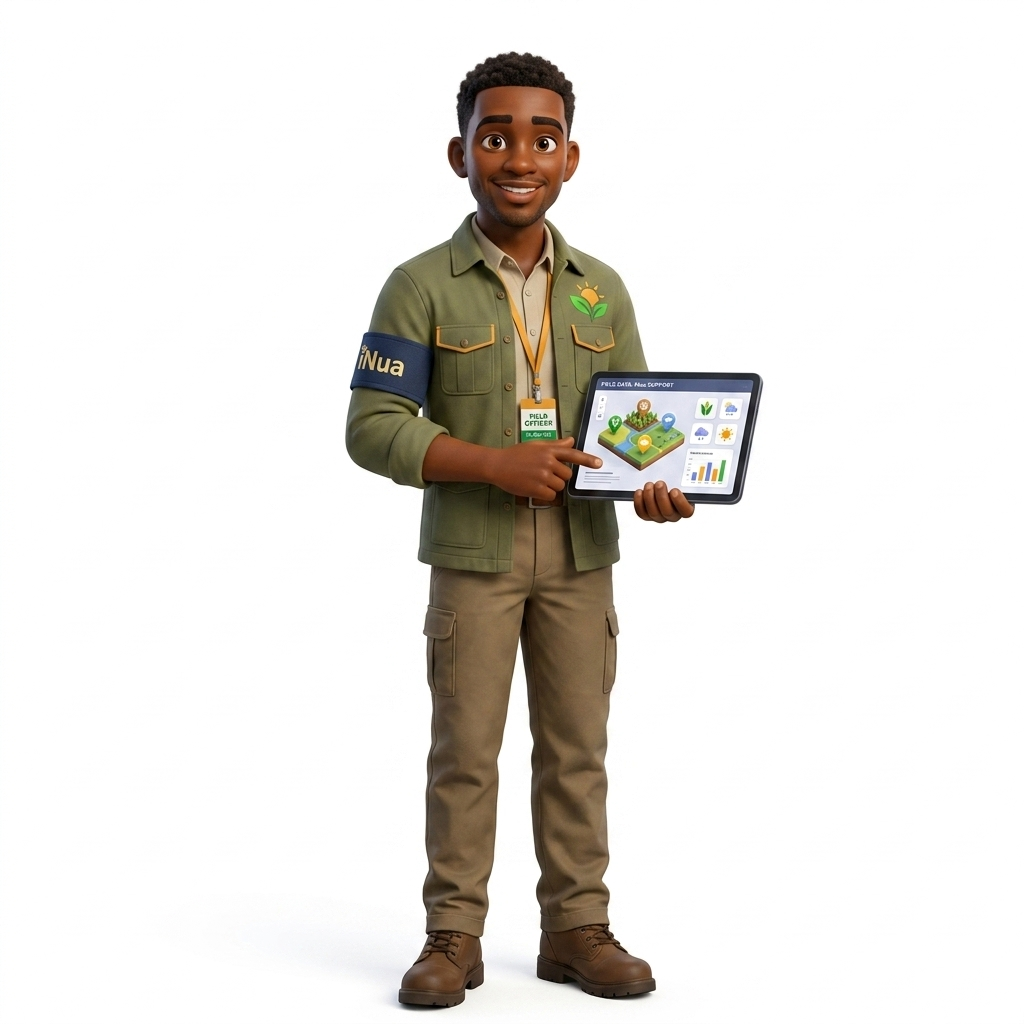
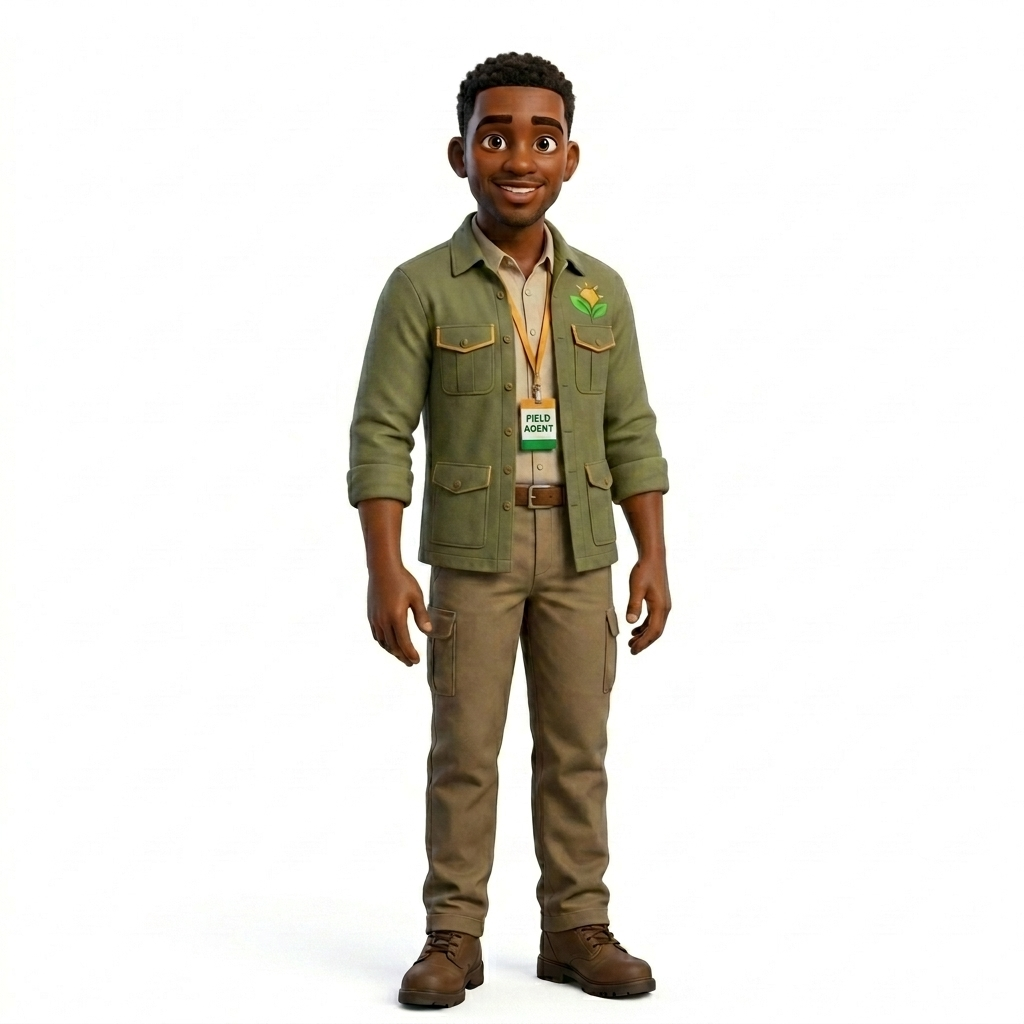
feat: refine glass box layouts, update leaf animation, and finalize Chris slide

Changed region(s): [[0.3125, 0.2812, 0.75, 0.6562], [0.5625, 0.2812, 0.5938, 0.3125], [0.5312, 0.125, 0.5625, 0.1562]]

diff --git a/One Acre Fund/index.html b/One Acre Fund/index.html
@@ -289,17 +289,17 @@
       position: absolute;
       background: rgba(255, 255, 255, 0.95);
       border: 1px solid rgba(255, 255, 255, 1);
-      border-radius: 20px;
-      padding: 22px 28px;
-      box-shadow: 0 20px 40px rgba(140, 65, 21, 0.08), 0 5px 15px rgba(0, 0, 0, 0.02);
+      border-radius: 16px;
+      padding: 12px 18px;
+      box-shadow: 0 15px 30px rgba(140, 65, 21, 0.08), 0 5px 15px rgba(0, 0, 0, 0.02);
       backdrop-filter: blur(10px);
       text-align: left;
       z-index: 10;
-      width: 320px;
+      width: 240px;
       transition: transform 0.3s ease, box-shadow 0.3s ease;
       display: flex;
       flex-direction: column;
-      gap: 5px;
+      gap: 2px;
     }
 
     .cluster-card:nth-child(4n) {
@@ -327,8 +327,8 @@
     .card-header {
       display: flex;
       align-items: center;
-      gap: 15px;
-      margin-bottom: 5px;
+      gap: 10px;
+      margin-bottom: 2px;
     }
 
     .card-icon {
@@ -367,14 +367,20 @@
     }
 
     @keyframes float {
-
-      0%,
-      100% {
-        transform: translateY(0) rotate(0deg);
+      0% {
+        transform: translate(0, 0) rotate(0deg) scale(1);
       }
-
+      25% {
+        transform: translate(15px, -15px) rotate(15deg) scale(1.05);
+      }
       50% {
-        transform: translateY(-25px) rotate(15deg);
+        transform: translate(-10px, -35px) rotate(-10deg) scale(0.95);
+      }
+      75% {
+        transform: translate(-20px, -15px) rotate(-25deg) scale(1.02);
+      }
+      100% {
+        transform: translate(0, 0) rotate(0deg) scale(1);
       }
     }
 
@@ -503,44 +509,48 @@
       <div class="cluster-title">
         <h1 class="info-title">Nia</h1>
         <h3 class="info-subtitle">General Support Guide</h3>
-        <div class="info-description"
-          style="font-size: 1.1rem; color: var(--text-color); margin-top: 1rem; opacity: 0.9; line-height: 1.5; text-align: left;">
-          here to help farmers get general information about OAF, solve issues and stay on track<br><br>
-          <strong>we will help you with:</strong><br>
-          • General questions<br>
-          • program information<br>
-          • connect to you the right team
+        <div class="info-description" style="font-size: 1.1rem; color: var(--text-color); margin-top: 1rem; opacity: 0.9; line-height: 1.5; text-align: left;">
+          here to help farmers get general information about OAF, solve issues and stay on track
         </div>
       </div>
 
-      <!-- Orthogonal SVG Connecting Lines -->
       <svg class="cluster-svg" viewBox="0 0 1000 1000" preserveAspectRatio="none">
         <defs>
-          <marker id="arrow" viewBox="0 0 10 10" refX="8" refY="5" markerWidth="6" markerHeight="6"
-            orient="auto-start-reverse">
+          <marker id="arrow" viewBox="0 0 10 10" refX="8" refY="5" markerWidth="6" markerHeight="6" orient="auto-start-reverse">
             <path d="M 0 1 L 8 5 L 0 9 z" fill="#eab683" />
           </marker>
         </defs>
-        <!-- Left - Call Support -->
-        <path d="M 400 480 L 300 480 L 300 480 L 220 480" marker-end="url(#arrow)" />
+        <!-- Top Left - We will help you with -->
+        <path d="M 450 380 L 360 380" marker-end="url(#arrow)" />
+        <!-- Bottom Left - Call Support -->
+        <path d="M 450 680 L 360 680" marker-end="url(#arrow)" />
         <!-- Top Right - Chat with Nia -->
-        <path d="M 600 400 L 700 400 L 700 350 L 780 350" marker-end="url(#arrow)" />
+        <path d="M 550 350 L 640 350" marker-end="url(#arrow)" />
         <!-- Bottom Right - Reminders -->
-        <path d="M 600 600 L 720 600 L 720 650 L 780 650" marker-end="url(#arrow)" />
+        <path d="M 550 680 L 640 680" marker-end="url(#arrow)" />
       </svg>
 
       <div class="floating-leaf" style="width: 30px; height: 30px; top: 30%; left: 35%; animation-delay: 0s;"></div>
       <div class="floating-leaf" style="width: 20px; height: 20px; top: 60%; right: 30%; animation-delay: 1.5s;"></div>
-      <div class="floating-leaf"
-        style="width: 40px; height: 40px; top: 15%; right: 20%; animation-delay: 3s; border-radius: 0 50% 0 50%; opacity: 0.1;">
-      </div>
+      <div class="floating-leaf" style="width: 40px; height: 40px; top: 15%; right: 20%; animation-delay: 3s; border-radius: 0 50% 0 50%; opacity: 0.1;"></div>
 
       <!-- Character -->
       <div class="character-backdrop"></div>
       <img src="../Images/nia.png" alt="Nia" class="cluster-character" />
 
       <!-- Absolute Floating Cards -->
-      <div class="cluster-card" style="top: 43%; left: 8%;">
+      <div class="cluster-card" style="top: 33%; left: 16%; min-width: 250px;">
+        <div class="card-header" style="margin-bottom: 8px;">
+          <h4>We will help you with</h4>
+        </div>
+        <ul style="list-style: none; padding: 0; margin: 0; line-height: 1.6; font-size: 0.9rem; color: var(--text-color);">
+          <li style="display: flex; align-items: center; gap: 8px;"><i class="ph-fill ph-question" style="color: var(--brand-green); font-size: 1.1rem;"></i> General questions</li>
+          <li style="display: flex; align-items: center; gap: 8px;"><i class="ph-fill ph-info" style="color: var(--brand-green); font-size: 1.1rem;"></i> Program information</li>
+          <li style="display: flex; align-items: center; gap: 8px;"><i class="ph-fill ph-users" style="color: var(--brand-green); font-size: 1.1rem;"></i> Connect you to the right team</li>
+        </ul>
+      </div>
+
+      <div class="cluster-card" style="top: 68%; left: 18%;">
         <div class="card-header">
           <div class="card-icon"><i class="ph-fill ph-phone"></i></div>
           <h4>Call support</h4>
@@ -548,19 +558,18 @@
         <p>24/7 support in kinyarwanda</p>
       </div>
 
-      <div class="cluster-card" style="top: 30%; right: 10%;">
+      <div class="cluster-card" style="top: 28%; right: 16%;">
         <div class="card-header">
           <div class="card-icon" style="position: relative;">
             <i class="ph-fill ph-chat-teardrop-text"></i>
-            <span
-              style="position: absolute; bottom: 0px; right: -2px; width: 12px; height: 12px; background: #3b8842; border: 2px solid white; border-radius: 50%;"></span>
+            <span style="position: absolute; bottom: 0px; right: -2px; width: 12px; height: 12px; background: #3b8842; border: 2px solid white; border-radius: 50%;"></span>
           </div>
           <h4>Chat with Nia</h4>
         </div>
         <p>Get help in real time.</p>
       </div>
 
-      <div class="cluster-card" style="top: 60%; right: 12%;">
+      <div class="cluster-card" style="top: 65%; right: 18%;">
         <div class="card-header">
           <div class="card-icon"><i class="ph-fill ph-calendar"></i></div>
           <h4>Reminders</h4>
@@ -585,45 +594,74 @@
     <div class="cluster-container">
       <div class="cluster-title">
         <h1 class="info-title">Nuru</h1>
-        <h3 class="info-subtitle">Dani Rup \ Weather Guide</h3>
+        <h3 class="info-subtitle">Weather Guide</h3>
+        <div class="info-description" style="font-size: 1.1rem; color: var(--text-color); margin-top: 1rem; opacity: 0.9; line-height: 1.5; text-align: left;">
+          Helping farmers understand the upcoming weather in their location, weather risks, timings and what action they should take.
+        </div>
       </div>
 
       <svg class="cluster-svg" viewBox="0 0 1000 1000" preserveAspectRatio="none">
         <defs>
-          <marker id="arrow2" viewBox="0 0 10 10" refX="8" refY="5" markerWidth="6" markerHeight="6"
-            orient="auto-start-reverse">
+          <marker id="arrow2" viewBox="0 0 10 10" refX="8" refY="5" markerWidth="6" markerHeight="6" orient="auto-start-reverse">
             <path d="M 0 1 L 8 5 L 0 9 z" fill="#eab683" />
           </marker>
         </defs>
-        <!-- Left -->
-        <path d="M 400 550 L 300 550 L 300 460 L 220 460" marker-end="url(#arrow2)" />
-        <!-- Right -->
-        <path d="M 600 550 L 700 550 L 700 460 L 780 460" marker-end="url(#arrow2)" />
+        <!-- Top Left -->
+        <path d="M 450 380 L 360 380" marker-end="url(#arrow2)" />
+        <!-- Bottom Left -->
+        <path d="M 450 680 L 360 680" marker-end="url(#arrow2)" />
+        <!-- Top Right -->
+        <path d="M 550 350 L 640 350" marker-end="url(#arrow2)" />
+        <!-- Bottom Right -->
+        <path d="M 550 680 L 640 680" marker-end="url(#arrow2)" />
       </svg>
 
-      <div class="floating-leaf" style="width: 35px; height: 35px; top: 25%; left: 5%; animation-delay: 0.5s;"></div>
-      <div class="floating-leaf"
-        style="width: 25px; height: 25px; top: 70%; right: 10%; animation-delay: 2s; opacity: 0.1;"></div>
+      <!-- Weather Background Icons -->
+      <div class="floating-leaf" style="width: 35px; height: 35px; top: 25%; left: 5%; animation-delay: 0.5s; color: var(--accent-orange); opacity: 0.2;"><i class="ph-fill ph-sun" style="font-size: 35px;"></i></div>
+      <div class="floating-leaf" style="width: 25px; height: 25px; top: 70%; right: 10%; animation-delay: 2s; color: var(--text-color); opacity: 0.1;"><i class="ph-fill ph-cloud" style="font-size: 25px;"></i></div>
+      <div class="floating-leaf" style="width: 40px; height: 40px; top: 15%; right: 25%; animation-delay: 3s; color: var(--text-color); opacity: 0.15;"><i class="ph-fill ph-cloud-rain" style="font-size: 40px;"></i></div>
 
       <!-- Character -->
       <div class="character-backdrop"></div>
       <img src="../Images/nuru.png" alt="Nuru" class="cluster-character" />
 
       <!-- Absolute Floating Cards -->
-      <div class="cluster-card" style="top: 42%; left: 10%;">
-        <div class="card-header">
-          <div class="card-icon"><i class="ph-fill ph-cloud-sun"></i></div>
-          <h4>Weather Advisor</h4>
+      <div class="cluster-card" style="top: 33%; left: 16%; min-width: 250px;">
+        <div class="card-header" style="margin-bottom: 8px;">
+          <h4>We will help you with</h4>
         </div>
-        <p>wather advisot, explanationm, use case and exmaples</p>
+        <ul style="list-style: none; padding: 0; margin: 0; line-height: 1.6; font-size: 0.9rem; color: var(--text-color);">
+          <li style="display: flex; align-items: center; gap: 8px;"><i class="ph-fill ph-cloud-rain" style="color: var(--brand-green); font-size: 1.1rem;"></i> Rain alerts</li>
+          <li style="display: flex; align-items: center; gap: 8px;"><i class="ph-fill ph-plant" style="color: var(--brand-green); font-size: 1.1rem;"></i> Planting timings</li>
+          <li style="display: flex; align-items: center; gap: 8px;"><i class="ph-fill ph-basket" style="color: var(--brand-green); font-size: 1.1rem;"></i> Spraying and harvest decisions</li>
+        </ul>
       </div>
 
-      <div class="cluster-card" style="top: 42%; right: 12%;">
+      <div class="cluster-card" style="top: 68%; left: 18%;">
         <div class="card-header">
-          <div class="card-icon"><i class="ph-fill ph-cloud-rain"></i></div>
-          <h4>Weather Updates</h4>
+          <div class="card-icon"><i class="ph-fill ph-plant"></i></div>
+          <h4>Planting Window</h4>
         </div>
-        <p>Real-time forecasts and alerts to help you plan ahead.</p>
+        <p>We will have good conditions this week to plant maize.</p>
+      </div>
+
+      <div class="cluster-card" style="top: 28%; right: 16%;">
+        <div class="card-header">
+          <div class="card-icon" style="position: relative;">
+            <i class="ph-fill ph-cloud-rain"></i>
+            <i class="ph-fill ph-warning-circle" style="position: absolute; bottom: -5px; right: -5px; color: #d32f2f; font-size: 18px; background: white; border-radius: 50%;"></i>
+          </div>
+          <h4>Weather Alerts</h4>
+        </div>
+        <p>Heavy rains tonight, protect new plants and avoid fertilizer application before the storm.</p>
+      </div>
+
+      <div class="cluster-card" style="top: 65%; right: 18%;">
+        <div class="card-header">
+          <div class="card-icon"><i class="ph-fill ph-cloud-sun"></i></div>
+          <h4>Today's Forecast</h4>
+        </div>
+        <p>Cloudy with bit of sunshine until 2pm, after that sunny. Temp: 28C</p>
       </div>
 
       <!-- Logo Lockup -->
@@ -643,34 +681,74 @@
     <div class="cluster-container">
       <div class="cluster-title">
         <h1 class="info-title">Chris</h1>
-        <h3 class="info-subtitle">Rose Garden \ Crop Coach</h3>
+        <h3 class="info-subtitle">Crop Coach</h3>
+        <div class="info-description" style="font-size: 1.1rem; color: var(--text-color); margin-top: 1rem; opacity: 0.9; line-height: 1.5; text-align: left;">
+          Helping farmers with crop guidelines and real-time field related decision making.
+        </div>
       </div>
 
       <svg class="cluster-svg" viewBox="0 0 1000 1000" preserveAspectRatio="none">
         <defs>
-          <marker id="arrow3" viewBox="0 0 10 10" refX="8" refY="5" markerWidth="6" markerHeight="6"
-            orient="auto-start-reverse">
+          <marker id="arrow3" viewBox="0 0 10 10" refX="8" refY="5" markerWidth="6" markerHeight="6" orient="auto-start-reverse">
             <path d="M 0 1 L 8 5 L 0 9 z" fill="#eab683" />
           </marker>
         </defs>
-        <!-- Left -->
-        <path d="M 400 550 L 300 550 L 300 460 L 240 460" marker-end="url(#arrow3)" />
+        <!-- Top Left -->
+        <path d="M 450 380 L 360 380" marker-end="url(#arrow3)" />
+        <!-- Bottom Left -->
+        <path d="M 450 680 L 360 680" marker-end="url(#arrow3)" />
+        <!-- Top Right -->
+        <path d="M 550 350 L 640 350" marker-end="url(#arrow3)" />
+        <!-- Bottom Right -->
+        <path d="M 550 680 L 640 680" marker-end="url(#arrow3)" />
       </svg>
 
-      <div class="floating-leaf" style="width: 40px; height: 40px; top: 15%; left: 15%; animation-delay: 1s;"></div>
-      <div class="floating-leaf" style="width: 25px; height: 25px; top: 40%; right: 15%; animation-delay: 2.5s;"></div>
+      <!-- Background Field Icons -->
+      <div class="floating-leaf" style="width: 35px; height: 35px; top: 25%; left: 5%; animation-delay: 0.5s; color: var(--brand-green); opacity: 0.2;"><i class="ph-fill ph-leaf" style="font-size: 35px;"></i></div>
+      <div class="floating-leaf" style="width: 25px; height: 25px; top: 70%; right: 10%; animation-delay: 2s; color: var(--heading-color); opacity: 0.1;"><i class="ph-fill ph-plant" style="font-size: 25px;"></i></div>
+      <div class="floating-leaf" style="width: 40px; height: 40px; top: 15%; right: 25%; animation-delay: 3s; color: var(--accent-orange); opacity: 0.15;"><i class="ph-fill ph-bug" style="font-size: 40px;"></i></div>
 
+      <!-- Character -->
       <div class="character-backdrop"></div>
       <img src="../Images/chris.png" alt="Chris" class="cluster-character" />
 
-      <div class="cluster-card" style="top: 42%; left: 12%;">
-        <div class="card-header">
-          <div class="card-icon"><i class="ph-fill ph-plant"></i></div>
-          <h4>Crop Advice</h4>
+      <!-- Absolute Floating Cards -->
+      <div class="cluster-card" style="top: 33%; left: 16%; min-width: 250px;">
+        <div class="card-header" style="margin-bottom: 8px;">
+          <h4>We will help you with</h4>
         </div>
-        <p>Practical guidance for healthier crops and better yields.</p>
+        <ul style="list-style: none; padding: 0; margin: 0; line-height: 1.6; font-size: 0.9rem; color: var(--text-color);">
+          <li style="display: flex; align-items: center; gap: 8px;"><i class="ph-fill ph-leaf" style="color: var(--brand-green); font-size: 1.1rem;"></i> Crop information</li>
+          <li style="display: flex; align-items: center; gap: 8px;"><i class="ph-fill ph-flask" style="color: var(--brand-green); font-size: 1.1rem;"></i> Fertilizer guidance</li>
+          <li style="display: flex; align-items: center; gap: 8px;"><i class="ph-fill ph-steps" style="color: var(--brand-green); font-size: 1.1rem;"></i> Stage by stage advice</li>
+        </ul>
       </div>
 
+      <div class="cluster-card" style="top: 68%; left: 18%;">
+        <div class="card-header">
+          <div class="card-icon"><i class="ph-fill ph-flask"></i></div>
+          <h4>Fertilizer Guidance</h4>
+        </div>
+        <p>What to apply, at what stage of the grow cycle, for better results.</p>
+      </div>
+
+      <div class="cluster-card" style="top: 28%; right: 16%;">
+        <div class="card-header">
+          <div class="card-icon"><i class="ph-fill ph-ruler"></i></div>
+          <h4>Field Tips & Best Practices</h4>
+        </div>
+        <p>Keep spacing consistent for stronger crop growth.</p>
+      </div>
+
+      <div class="cluster-card" style="top: 65%; right: 18%;">
+        <div class="card-header">
+          <div class="card-icon"><i class="ph-fill ph-stethoscope"></i></div>
+          <h4>Crop Health Check</h4>
+        </div>
+        <p>Yellow leaves in maize? Let's identify the cause.</p>
+      </div>
+
+      <!-- Logo Lockup -->
       <div class="logo-lockup">
         <span class="oaf">ONE ACRE FUND</span>
         <div class="divider"></div>